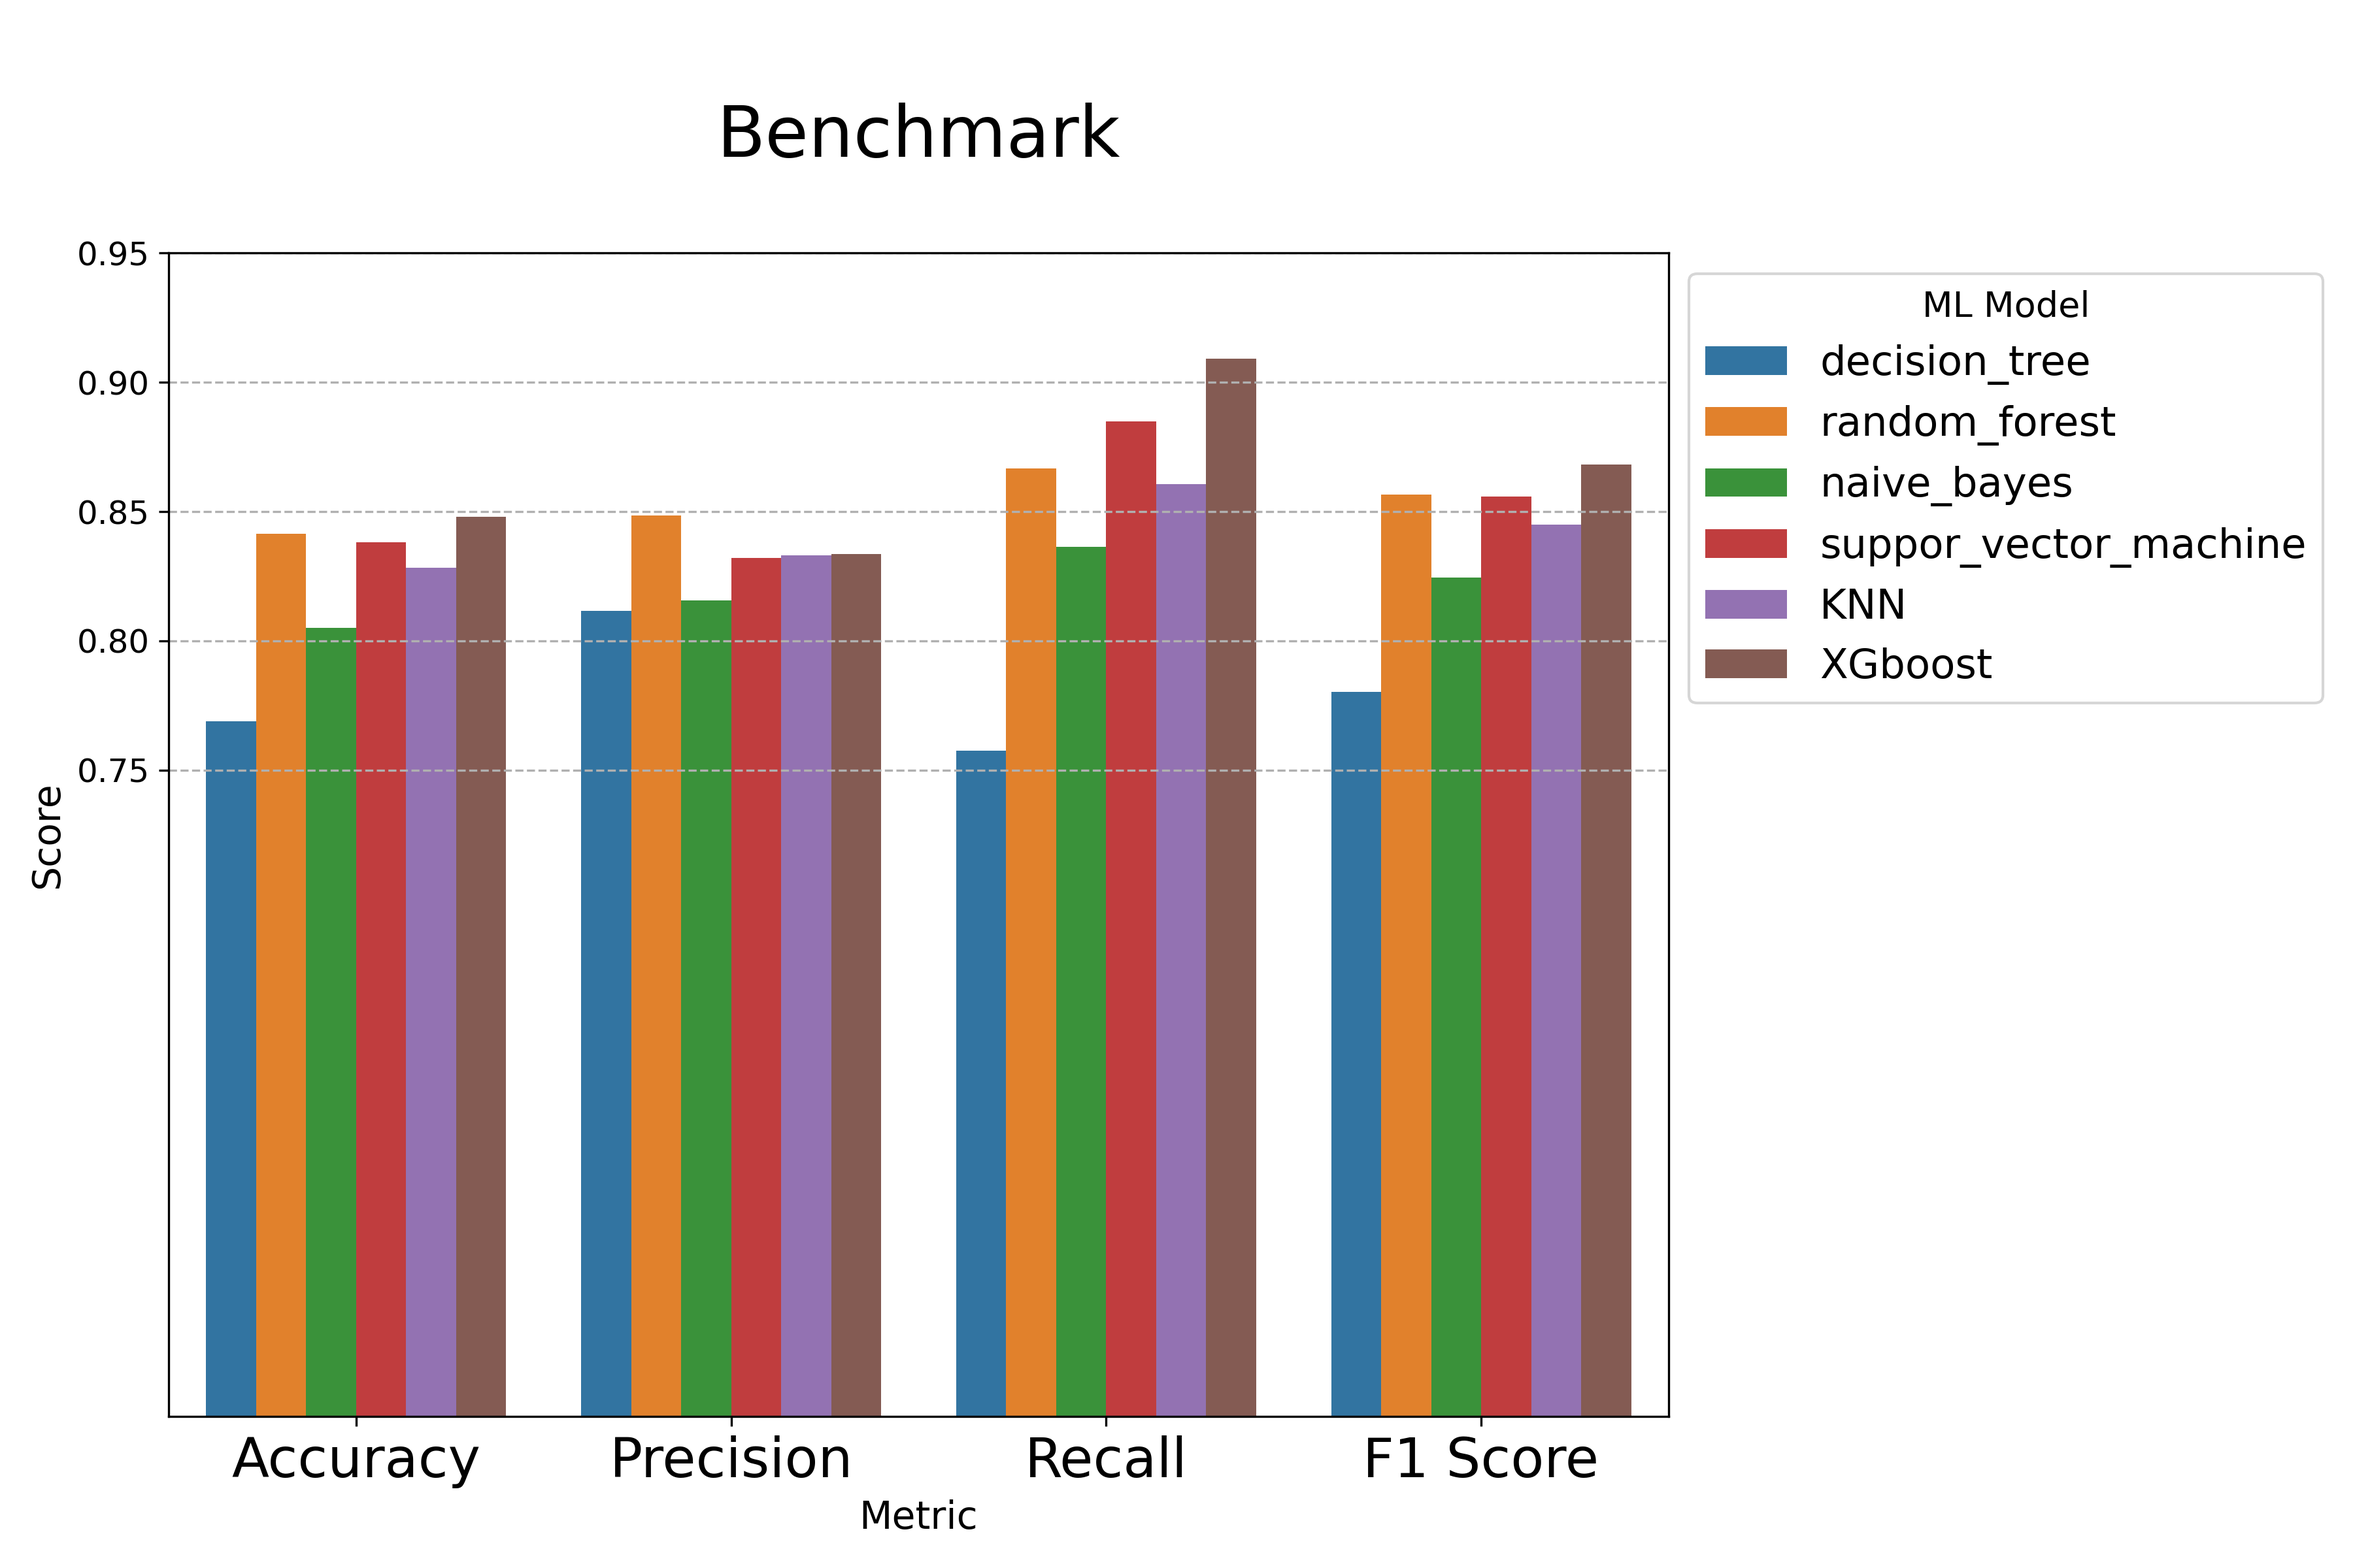
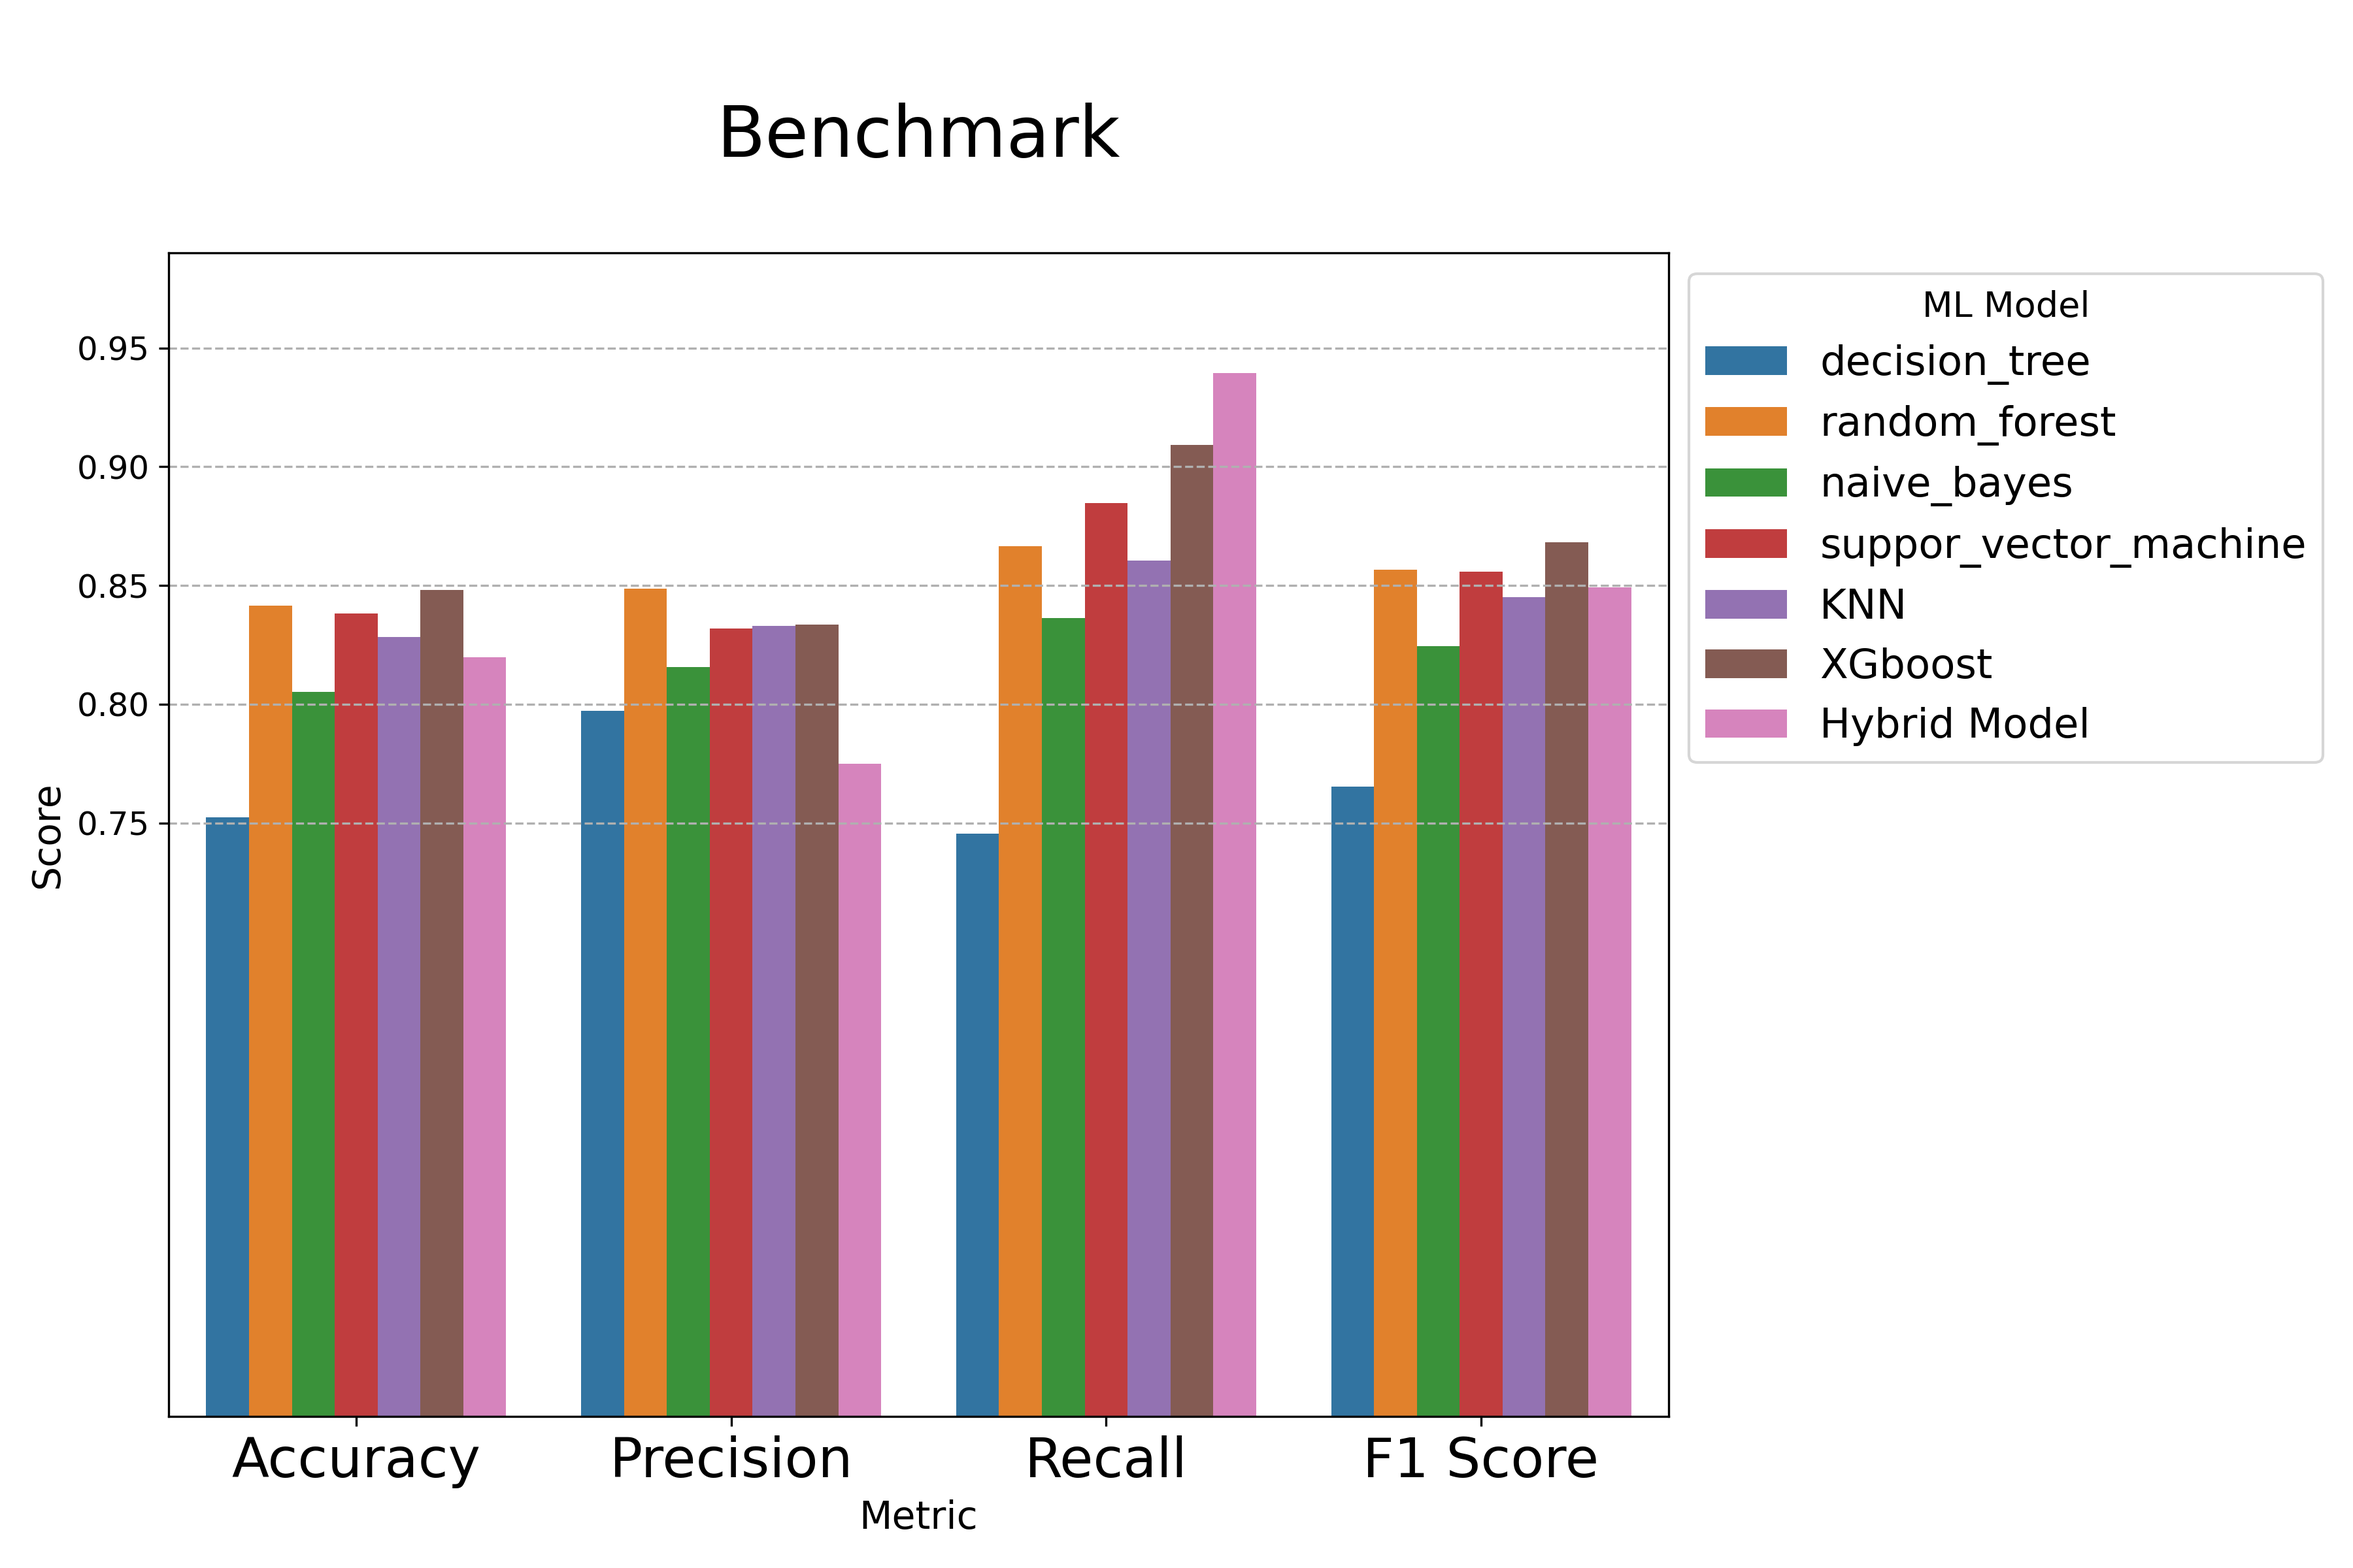
final model

diff --git a/app/analizer.py b/app/analizer.py
@@ -9,15 +9,20 @@ import matplotlib.pyplot as plt
 import numpy as np
 import pandas as pd
 # Metrics and validation methods
-from sklearn.model_selection import cross_validate, GridSearchCV
+from sklearn.model_selection import cross_validate,\
+     GridSearchCV, train_test_split, RandomizedSearchCV,\
+     cross_val_score, StratifiedKFold
 
 # Machine Learning Methods
 from sklearn.tree import DecisionTreeClassifier 
-from sklearn.ensemble import RandomForestClassifier
+from sklearn.ensemble import RandomForestClassifier,StackingClassifier
 from sklearn.naive_bayes import GaussianNB
 from sklearn.svm import SVC
 from sklearn.neighbors import KNeighborsClassifier
 from xgboost import XGBClassifier
+from sklearn.linear_model import LogisticRegression
+from sklearn.metrics import accuracy_score, precision_score, recall_score, f1_score
+
 
 scoring = {
     'accuracy': 'accuracy',
@@ -138,7 +143,7 @@ def benchmarkbar(bench_data):
     #plt.xlabel('Metric', fontsize=14)  # Etiqueta del eje X
     plt.ylabel('Score', fontsize=14)  # Etiqueta del eje Y
     plt.xlabel('Metric', fontsize=14)  # Etiqueta del eje Y
-    plt.ylim(0.5, 0.95) # Ajustar los límites del eje Y para mejor enfoque
+    plt.ylim(0.5, 0.99) # Ajustar los límites del eje Y para mejor enfoque
 
     # Ajustar la leyenda
     plt.legend(title='ML Model', fontsize=15, title_fontsize='13', loc='upper left', bbox_to_anchor=(1, 1))  # Posicionamiento de la leyenda
@@ -186,3 +191,50 @@ def benchmark(bench_data):
         f.write("Benchmark Results\n")
         f.write("*******************************************************************\n\n")
         f.write(bench_data.to_string(index=False))
+
+
+def stackmodel(X,y):
+    X_train, X_val, y_train, y_val = train_test_split(X, y, test_size=0.2, stratify=y, random_state=42)
+
+    # Definir los modelos base con los mejores hiperparámetros encontrados
+    estimators = [
+        ('decision_tree', DecisionTreeClassifier(max_depth=30, min_samples_split=2, min_samples_leaf=2)),
+        ('random_forest', RandomForestClassifier(n_estimators=100, max_depth=20, min_samples_split=2, min_samples_leaf=1, bootstrap=True, random_state=42, n_jobs=-1)),
+        ('naive_bayes', GaussianNB()),
+        ('svc', SVC(C=0.1, gamma=1, kernel='poly', probability=True)),
+        ('knn', KNeighborsClassifier(n_neighbors=5, weights='uniform', metric='manhattan', n_jobs=-1)),
+        ('xgboost', XGBClassifier(n_estimators=200, learning_rate=0.01, max_depth=3, subsample=0.6, colsample_bytree=0.6, n_jobs=-1))
+    ]
+
+    # Ajuste de hiperparámetros para el modelo meta RandomForestClassifier
+    param_grid = {
+        'n_estimators': [50, 100, 200,500],
+        'max_depth': [None, 10, 20, 30,40],
+        'min_samples_split': [2, 5, 10,20],
+        'min_samples_leaf': [1, 2, 4,6],
+        'bootstrap': [True, False]
+    }
+
+    meta_model = RandomForestClassifier(random_state=42)
+
+    # Ajuste de hiperparámetros
+    grid_search = RandomizedSearchCV(estimator=meta_model, param_distributions=param_grid, cv=5, n_jobs=-1, scoring='accuracy', random_state=42)
+    grid_search.fit(X_train, y_train)
+
+    # Mejor modelo meta
+    best_meta_model = grid_search.best_estimator_
+
+    # Crear el modelo de stacking
+    stacking_model = StackingClassifier(estimators=estimators, final_estimator=best_meta_model, n_jobs=-1)
+
+    # Entrenar el modelo de stacking usando todos los datos de entrenamiento
+    stacking_model.fit(X_train, y_train)
+
+    # Evaluar el rendimiento del modelo de stacking en el conjunto de validación
+    y_pred = stacking_model.predict(X_val)
+    accuracy = accuracy_score(y_val, y_pred)
+    precision = precision_score(y_val, y_pred)
+    recall = recall_score(y_val, y_pred)
+    f1 = f1_score(y_val, y_pred)
+
+    return accuracy,precision,recall,f1

diff --git a/solution.py b/solution.py
@@ -3,14 +3,16 @@ from app.data import data_info
 from app.data_prepross import preprocess
 from app.analizer import P_corr, decision_tree, \
       random_forest, suppor_vector_machine,\
-      naive_bayes, KNN, xgboost, benchmark,benchmarkbar
+      naive_bayes, KNN, xgboost, benchmark,benchmarkbar,\
+      stackmodel
+
 
 dataset = data_info()
 X,y = preprocess(dataset)
 P_corr(X)
 
-models = [decision_tree,random_forest,naive_bayes,suppor_vector_machine,KNN,xgboost]
-name_models = ["decision_tree","random_forest","naive_bayes","suppor_vector_machine","KNN","XGboost"]
+models = [decision_tree,random_forest,naive_bayes,suppor_vector_machine,KNN,xgboost,stackmodel]
+name_models = ["decision_tree","random_forest","naive_bayes","suppor_vector_machine","KNN","XGboost","Hybrid Model"]
 
 
 
